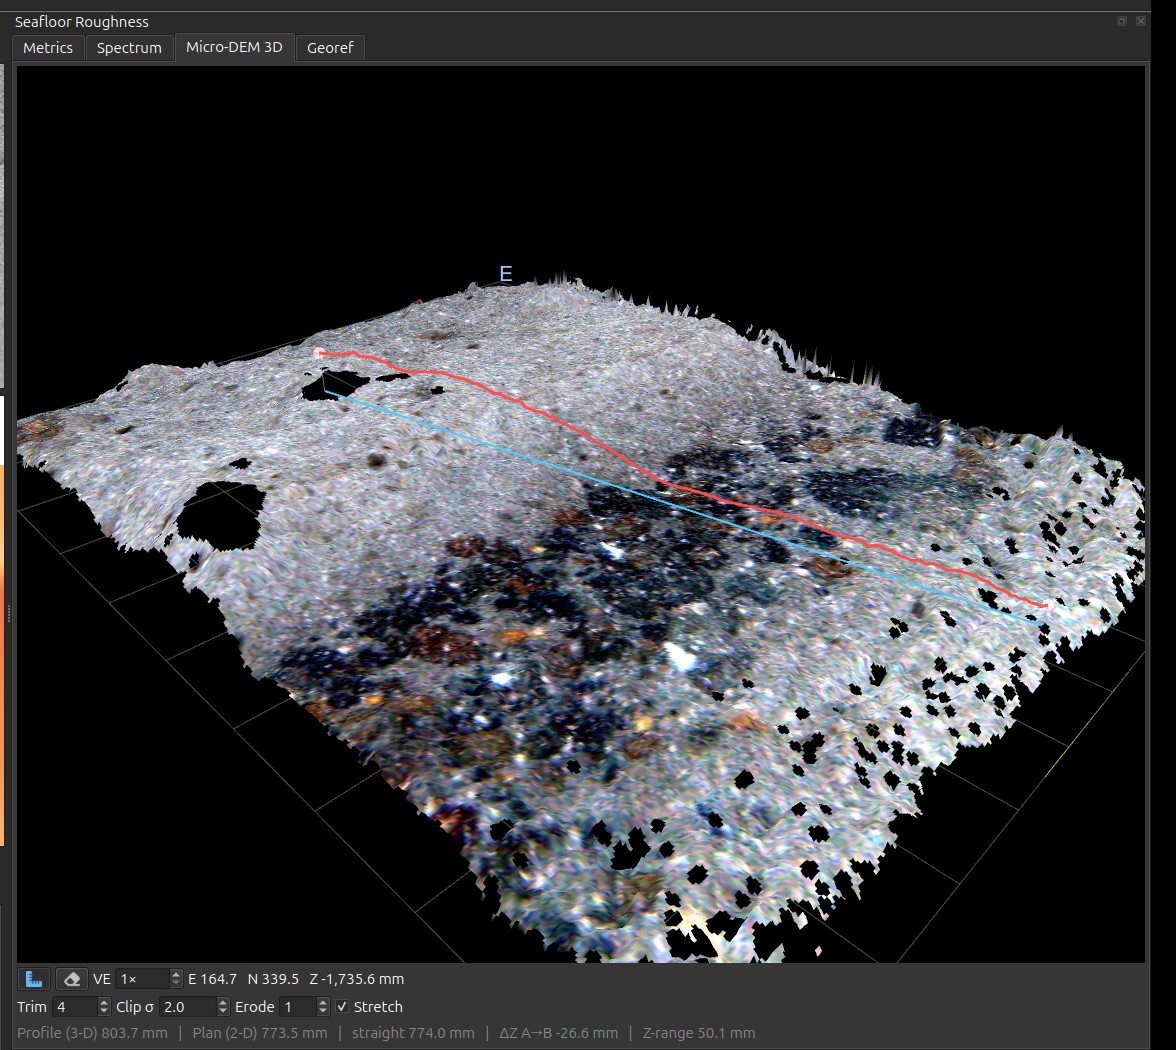
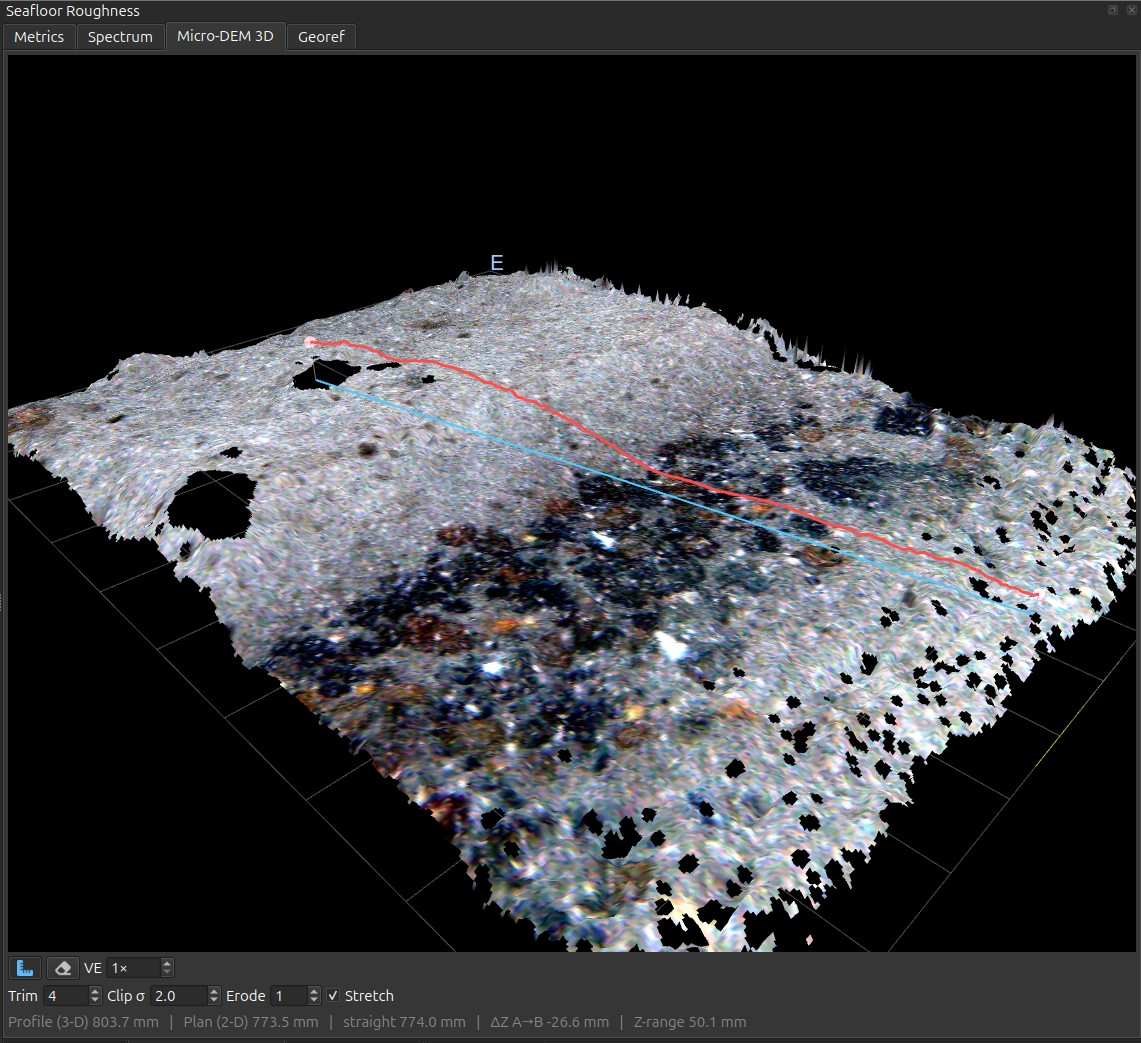
docs(assets): the roughness trio, captured natively from the dock
Metrics, Spectrum and Micro-DEM 3D for ONE frame (…255958, gamma2=3.72), so the
three figures on the page now tell a single continuous story instead of showing
three unrelated frames.

Replaces my crops of the full-window captures with the author's native dock
captures: cleaner framing, and the spectrum one now includes the axis labels
(W in um^4, K in krad/m) and the W(K)/fit legend, which my crop had cut.

The Seafloor Roughness page finally has its hero - it was the last Priority-2
placeholder on a page whose headline output is the number in that image.

Captions now cross-reference: the spectrum's read-out matches the Metrics tab
above it, and the micro-DEM notes that the 3-D profile exceeding the plan
distance by 30 mm IS the relief, plus which mitigation settings produced the
culled no-data patches.

diff --git a/website/docs/tools/seafloor-roughness.md b/website/docs/tools/seafloor-roughness.md
@@ -6,9 +6,11 @@ quantitative texture descriptor to set beside the backscatter, plus a real-heigh
 micro-DEM of the patch the camera is looking at.
 
 <figure markdown>
-  <!-- TODO: replace src with assets/img/roughness-metrics-1.png (Metrics tab) -->
-  ![The Seafloor Roughness dock](../assets/img/placeholder.svg){ width="900" }
-  <figcaption>The Seafloor Roughness dock — Metrics tab.</figcaption>
+  ![The Seafloor Roughness dock](../assets/img/roughness-metrics-1.png){ width="677" }
+  <figcaption>The Metrics tab for one HabCam frame. γ₂ leads because it is the
+  trustworthy output; below it the indicative substrate and texture lines, then
+  w₂ and rms height carrying the service's per-frame trust flag — green here,
+  which is the good case rather than the usual one.</figcaption>
 </figure>
 
 Open it with the **cubes** icon on the GroundTruther toolbar; it docks on the
@@ -97,10 +99,11 @@ The spectrum is always requested; it is a small payload.
 
 <figure markdown>
   ![The relief power spectrum](../assets/img/roughness-spectrum-1.png){ width="800" }
-  <figcaption>W(K) on log-log axes with the fitted power law and the shaded fit
-  band. Note the read-out: <code>γ₂=3.72 · w₂=0.175 cm⁴ · R²=0.950 · fit band
-  125–1257 rad/m</code> — and the measured curve peeling away from the fit at
-  high K, which is the stereo noise floor rather than the seabed.</figcaption>
+  <figcaption>The same frame's spectrum: W (µm⁴) against K (krad/m) on log-log
+  axes, the fitted power law in red and the fit band shaded. The read-out is
+  <code>γ₂=3.72 · w₂=0.175 cm⁴ ✓ · R²=0.950 · fit band 125–1257 rad/m</code>, and
+  above ~1 krad/m the measured curve flattens away from the fit — that tail is the
+  stereo noise floor, not the seabed.</figcaption>
 </figure>
 
 ## How well does this actually work?
@@ -154,10 +157,12 @@ representation of the patch under the camera, not a high-passed roughness field.
 
 <figure markdown>
   ![Photo-textured micro-DEM](../assets/img/roughness-microdem-3d.jpg){ width="800" }
-  <figcaption>The micro-DEM draped with its orthophoto, with a two-point
+  <figcaption>The same frame again, as a photo-textured mesh, with a two-point
   measurement across the patch: <code>Profile (3-D) 803.7 mm · Plan (2-D) 773.5 mm
-  · ΔZ A→B −26.6 mm · Z-range 50.1 mm</code>. The black patches are no-data cells
-  culled by the mitigation controls, not flat seabed.</figcaption>
+  · ΔZ A→B −26.6 mm · Z-range 50.1 mm</code> — the 3-D distance exceeds the plan
+  distance by 30 mm, which is the relief. The black patches are no-data cells culled
+  by <b>Trim 4 / Clip σ 2.0 / Erode 1</b>, not flat seabed, and <b>Stretch</b> is on.
+  </figcaption>
 </figure>
 
 !!! note "The cell size is the service's choice, not yours"
